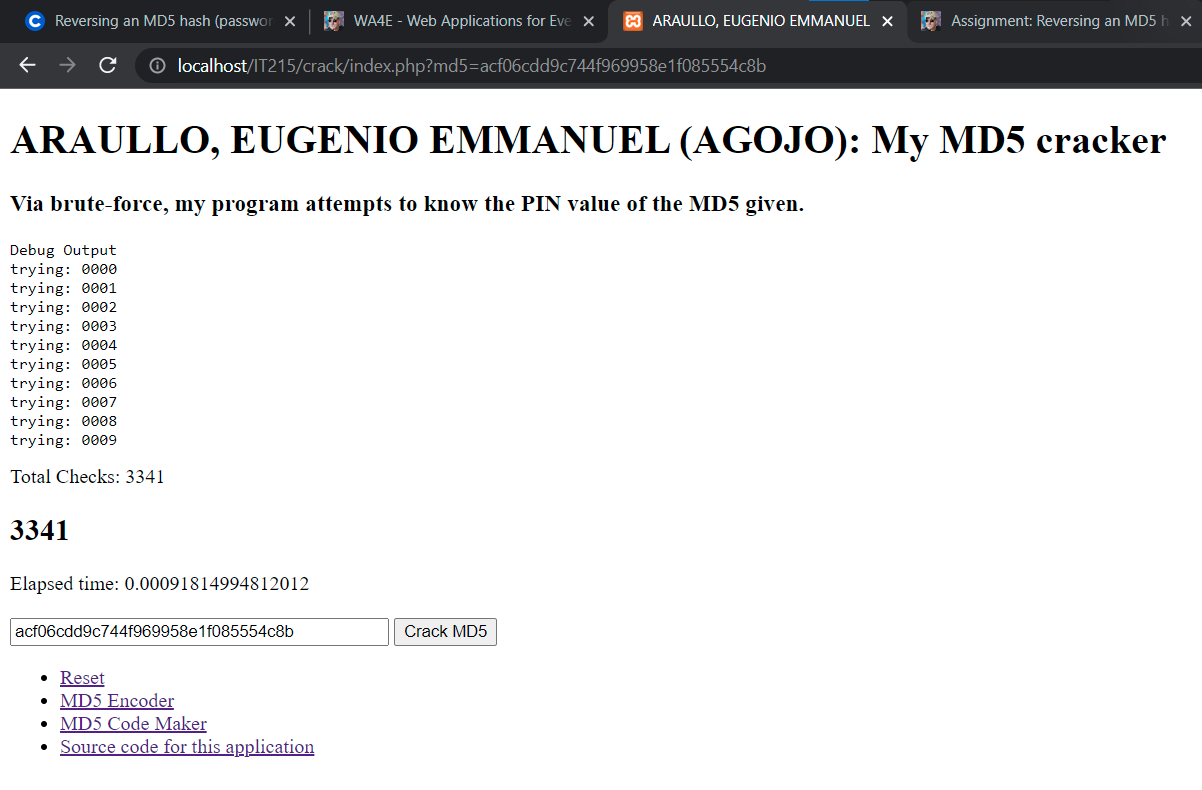
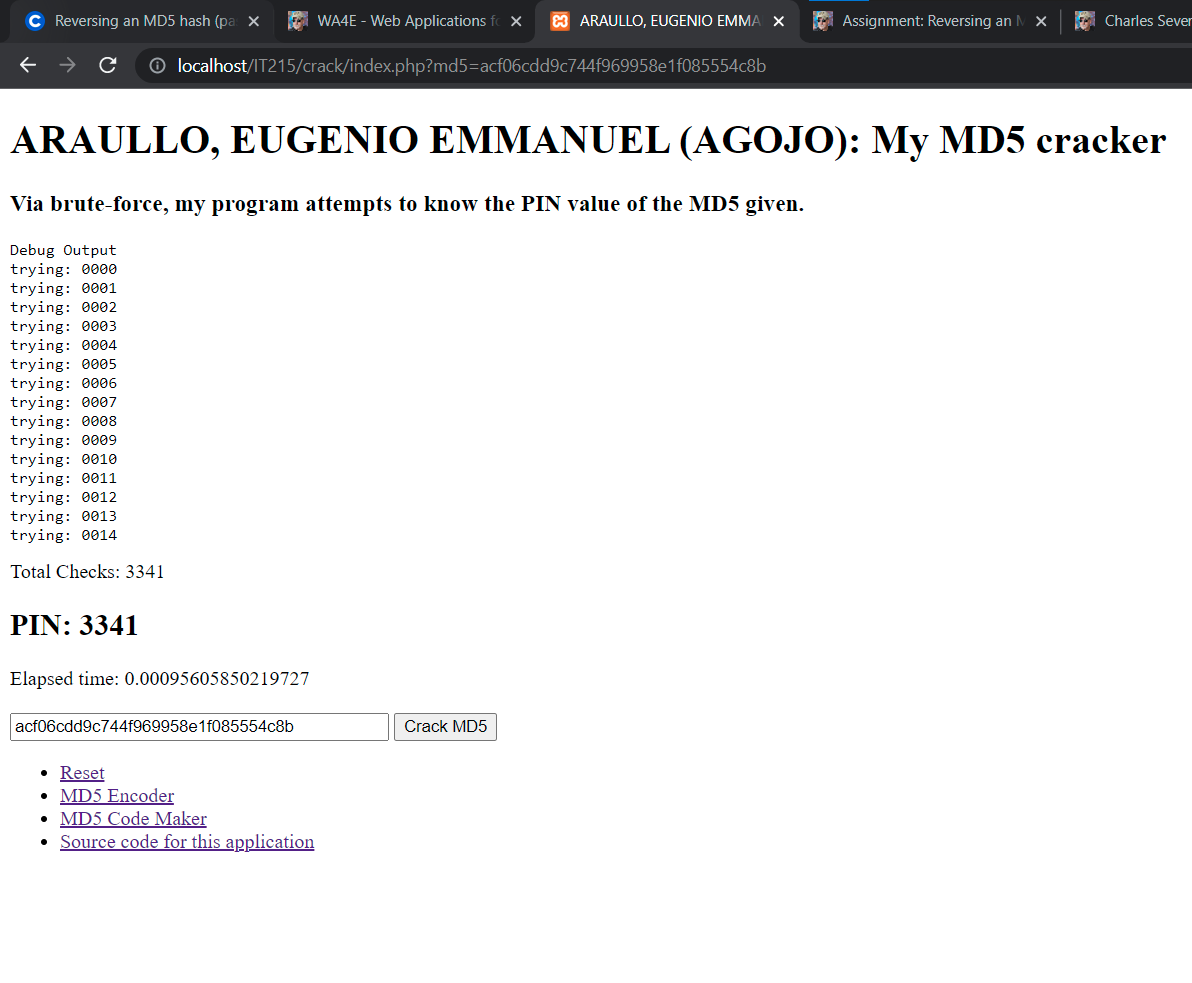
Changed github link

diff --git a/index.php b/index.php
@@ -12,7 +12,7 @@ if ( isset($_GET['md5']) ) {
     $md5 = $_GET['md5'];
 
     // static values
-    $show = 10;
+    $show = 15;
     $length = 4;
     $limit = 10000;
     $digit = 0;
@@ -32,7 +32,7 @@ if ( isset($_GET['md5']) ) {
     }
     print "</pre>";
     print "Total Checks: $count";
-    print "<h2>$goodtext</h2>";
+    print "<h2>PIN: $goodtext</h2>";
 
     // Compute elapsed time
     $time_post = microtime(true);
@@ -56,7 +56,7 @@ if ( isset($_GET['md5']) ) {
 <li><a href="md5.php">MD5 Encoder</a></li>
 <li><a href="makecode.php">MD5 Code Maker</a></li>
 <li><a
-href="https://github.com/csev/wa4e/tree/master/code/crack"
+href="https://github.com/ginomeee/md5-cracker"
 target="_blank">Source code for this application</a></li>
 </ul>
 </body>
